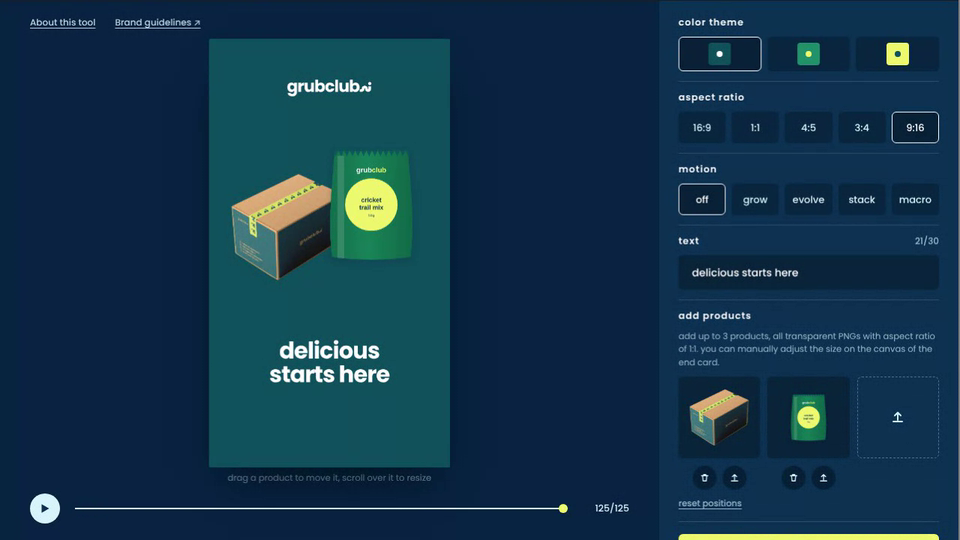
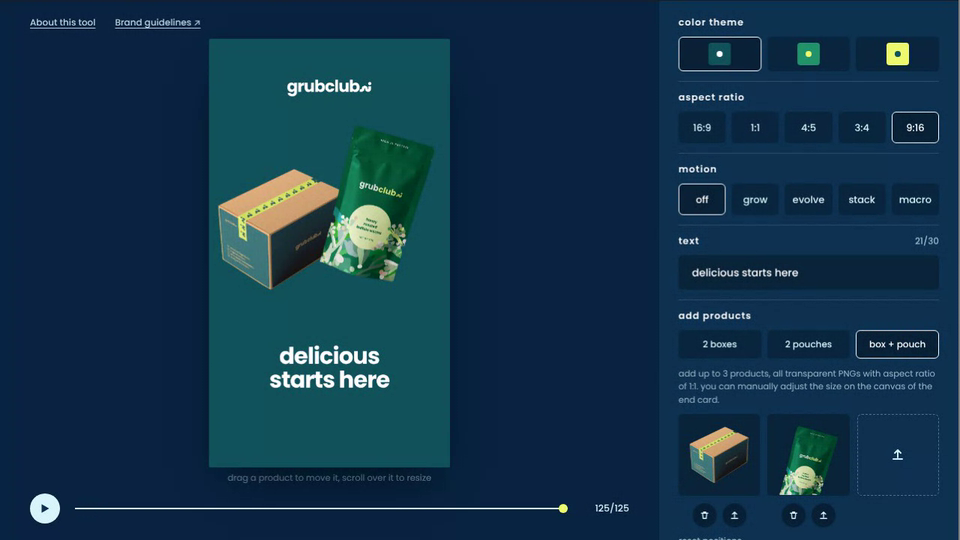
End Card Maker: product sets from the Grubclub packaging cut-outs (2 boxes, 2 pouches, box + pouch)
Claude-Session: https://claude.ai/code/session_01AHeBdyiVvLiqirjg3HPEF

diff --git a/grubclub-end-card/index.html b/grubclub-end-card/index.html
@@ -79,6 +79,8 @@ main{flex:1;min-height:0;display:grid;grid-template-columns:minmax(0,1fr) 400px}
 .sl input::-webkit-slider-thumb{-webkit-appearance:none;width:12px;height:12px;border-radius:50%;background:var(--kiwi);margin-top:-5px;border:0}
 .sl input::-moz-range-thumb{width:12px;height:12px;border-radius:50%;background:var(--kiwi);border:0}
 .sl input:focus-visible{outline:2px solid var(--kiwi);outline-offset:2px}
+.sets{margin-bottom:12px}
+.sets .opt{height:38px;font-size:12px}
 .reset{margin-top:10px;background:none;border:0;color:var(--egg);font:500 11.5px Poppins,sans-serif;opacity:.7;cursor:pointer;text-decoration:underline;text-underline-offset:3px;padding:0}
 .reset:hover{opacity:1}
 .tail{margin-top:auto;padding-top:16px}
@@ -121,6 +123,7 @@ main{flex:1;min-height:0;display:grid;grid-template-columns:minmax(0,1fr) 400px}
     <div class="sec"><h2>text <em id="cnt">21/30</em></h2>
       <input id="txt" maxlength="30" value="delicious starts here" placeholder="your headline" aria-label="Headline text" autocomplete="off" spellcheck="false"></div>
     <div class="sec"><h2>add products</h2>
+      <div class="row sets" id="sets"></div>
       <p>add up to 3 products, all transparent PNGs with aspect ratio of 1:1. you can manually adjust the size on the canvas of the end card.</p>
       <div class="tiles" id="tiles"></div>
       <button class="reset" id="reset">reset positions</button></div>
@@ -161,35 +164,26 @@ function tintedWm(color,h){ // wordmark mark, tinted
   return wmCache[k]=c;
 }
 
-/* default products: the entomo box, and a pouch drawn here (so the page works with no files) */
-function pouch(){
-  const c=document.createElement('canvas'); c.width=c.height=800; const x=c.getContext('2d');
-  x.save(); x.shadowColor='rgba(14,50,81,.25)'; x.shadowBlur=30; x.shadowOffsetY=18;
-  x.beginPath(); x.moveTo(190,90); x.lineTo(610,90); x.bezierCurveTo(625,300,650,500,625,700); x.quadraticCurveTo(400,730,175,700); x.bezierCurveTo(150,500,175,300,190,90); x.closePath();
-  const g=x.createLinearGradient(170,0,640,0); g.addColorStop(0,'#16734F'); g.addColorStop(.45,'#1C8859'); g.addColorStop(1,'#146B49'); x.fillStyle=g; x.fill(); x.restore();
-  x.save(); x.beginPath(); x.moveTo(190,90); x.lineTo(610,90); x.bezierCurveTo(625,300,650,500,625,700); x.quadraticCurveTo(400,730,175,700); x.bezierCurveTo(150,500,175,300,190,90); x.closePath(); x.clip();
-  x.fillStyle='#0F5A5C'; for(let i=0;i<14;i++){x.beginPath();x.moveTo(180+i*32,90);x.lineTo(196+i*32,122);x.lineTo(212+i*32,90);x.fill()}
-  x.fillStyle='rgba(255,255,255,.14)'; x.fillRect(205,120,40,590);
-  x.fillStyle='#EEFB71'; x.beginPath(); x.arc(400,400,150,0,7); x.fill();
-  x.fillStyle='#0E3251'; x.textAlign='center'; x.font='700 36px Poppins,Arial,sans-serif'; x.fillText('cricket',400,385); x.fillText('trail mix',400,428);
-  x.font='500 20px Poppins,Arial,sans-serif'; x.fillText('50g',400,468);
-  x.font='700 40px Poppins,Arial,sans-serif'; x.textAlign='left'; const gw=x.measureText('grub').width, cw=x.measureText('club').width, g0=400-(gw+cw)/2; x.fillStyle='#fff'; x.fillText('grub',g0,215); x.fillStyle='#EEFB71'; x.fillText('club',g0+gw,215);
-  x.restore(); return c;
-}
-const box=new Image(); box.src='box.webp';
-S.prods=[{img:box,name:'entomo box',dx:0,dy:0,sc:1},{img:pouch(),name:'trail mix',dx:0,dy:0,sc:1}];
-box.onload=()=>{render();tiles()};
+/* product sets: transparent cut-outs of the Grubclub packaging */
+const SETS=[
+ {n:'2 boxes',  p:[['boxes.webp','entomo boxes']]},
+ {n:'2 pouches',p:[['pouch-green.webp','honey roasted buffalo worms'],['pouch-blue.webp','lightly salted dehydrated grasshoppers']]},
+ {n:'box + pouch',p:[['box.webp','entomo box'],['pouch-green.webp','honey roasted buffalo worms']]}];
+const IMGS={};
+function pic(src){ if(!IMGS[src]){ const im=new Image(); im.onload=()=>{render();tiles()}; im.src=src; IMGS[src]=im; } return IMGS[src]; }
+function loadSet(i){ S.set=i; S.prods=SETS[i].p.map(([src,name])=>({img:pic(src),name,dx:0,dy:0,sc:1})); tiles(); render(); }
+S.prods=[]; S.set=2;
 
 /* ---------------- drawing ---------------- */
 function slots(n){
-  return n===1?[[0,0,1]]:n===2?[[-.3,.12,.8],[.3,-.04,1]]:[[-.42,.14,.74],[.42,.14,.74],[0,-.04,1]];
+  return n===1?[[0,0,1.15]]:n===2?[[-.3,.12,.8],[.3,-.04,1]]:[[-.42,.14,.74],[.42,.14,.74],[0,-.04,1]];
 }
 let ctx, hits=[];
 function layout(W,H){
   const wide=W/H>1.1, m=W*.08;
   if(wide){ const hc=H*.05, uf=0, uy=H-H*.09, lf=H*.06, ly=H*.14, top=ly+lf*.75, bot=uy-uf*1.6;
     return {wide,m,hc,logo:{x:m,y:ly,f:lf,al:'left'},zone:{cx:W*.71,cy:H*.46,s:H*.62,rowW:W*.46},tx:{x:m,y:(top+bot)/2,h:bot-top,w:W*.36,al:'left',max:H*.11,lines:3},url:{x:m,y:uy,f:uf,al:'left'}}; }
-  const hc=H*.045, uf=0, uy=H-H*.075, s=Math.min(W*.58,H*.36), cy=H*.4, top=cy+s*.58, bot=uy-uf*1.6;
+  const hc=H*.045, uf=0, uy=H-H*.075, s=Math.min(W*.66,H*.38), cy=H*.4, top=cy+s*.58, bot=uy-uf*1.6;
   return {wide,m,hc,logo:{x:W/2,y:H*.11,f:W*.068,al:'center'},zone:{cx:W/2,cy,s,rowW:W*.98},tx:{x:W/2,y:(top+bot)/2,h:bot-top,w:W-2*m,al:'center',max:Math.min(W*.095,H*.06),lines:3},url:{x:W/2,y:uy,f:uf,al:'center'}};
 }
 function wrapText(words,f,w){
@@ -309,6 +303,9 @@ addEventListener('keydown',e=>{ if(e.code==='Space'&&!/INPUT|TEXTAREA|BUTTON/.te
 /* ---------------- controls ---------------- */
 $('#themes').innerHTML=THEMES.map((t,i)=>`<button class="opt sw" data-i="${i}" aria-label="${t.name} theme" aria-pressed="${i===S.theme}"><i style="background:${t.bg};--a:${t.a}"></i></button>`).join('');
 $('#ratios').innerHTML=RATIOS.map((r,i)=>`<button class="opt" data-i="${i}" aria-pressed="${i===S.ratio}">${r[0]}</button>`).join('');
+$('#sets').innerHTML=SETS.map((m,i)=>`<button class="opt" data-i="${i}" aria-pressed="false">${m.n}</button>`).join('');
+$('#sets').onclick=e=>{const b=e.target.closest('.opt'); if(!b)return; loadSet(+b.dataset.i); press($('#sets'),S.set)};
+const unset=()=>{ S.set=-1; press($('#sets'),-1); };
 const MOTIONS=['off','grow','evolve','stack','macro'];
 $('#motions').innerHTML=MOTIONS.map((m,i)=>`<button class="opt" data-i="${i}" aria-pressed="${i===S.motion}">${m}</button>`).join('');
 $('#motions').onclick=e=>{const b=e.target.closest('.opt'); if(!b)return; S.motion=+b.dataset.i; press($('#motions'),S.motion); thirdUI(); render()};
@@ -335,13 +332,14 @@ function tiles(){
 let target=-1;
 $('#tiles').onclick=e=>{
   const b=e.target.closest('button'); if(!b) return;
-  if(b.dataset.del!==undefined){ S.prods.splice(+b.dataset.del,1); tiles(); render(); }
+  if(b.dataset.del!==undefined){ S.prods.splice(+b.dataset.del,1); unset(); tiles(); render(); }
   else { target=b.dataset.rep!==undefined?+b.dataset.rep:-1; $('#file').click(); }
 };
 $('#file').onchange=e=>{
   const f=e.target.files[0]; e.target.value=''; if(!f) return;
   const im=new Image(); im.onload=()=>{ const p={img:im,name:f.name.replace(/\.[^.]+$/,''),dx:0,dy:0,sc:1};
     if(target>=0&&S.prods[target]) S.prods[target]=p; else if(S.prods.length<3) S.prods.push(p);
+    unset();
     tiles(); render(); };
   im.src=URL.createObjectURL(f);
 };
@@ -382,7 +380,7 @@ $('#exp').onclick=async()=>{
 };
 
 /* ---------------- start ---------------- */
-size(); setPP(); render(); requestAnimationFrame(tick);
+size(); setPP(); loadSet(2); press($('#sets'),2); requestAnimationFrame(tick);
 (document.fonts&&document.fonts.load?Promise.all(['400','500','600','700'].map(w=>document.fonts.load(w+' 40px Poppins'))):Promise.resolve()).then(()=>{ Object.keys(wmCache).forEach(k=>delete wmCache[k]); render(); setTimeout(()=>{ if(!touched) play(); },250); }).catch(()=>{ if(!touched) play(); });
 window.ec={play:o=>play(o),seek,pause,get frame(){return frame}};
 </script>
